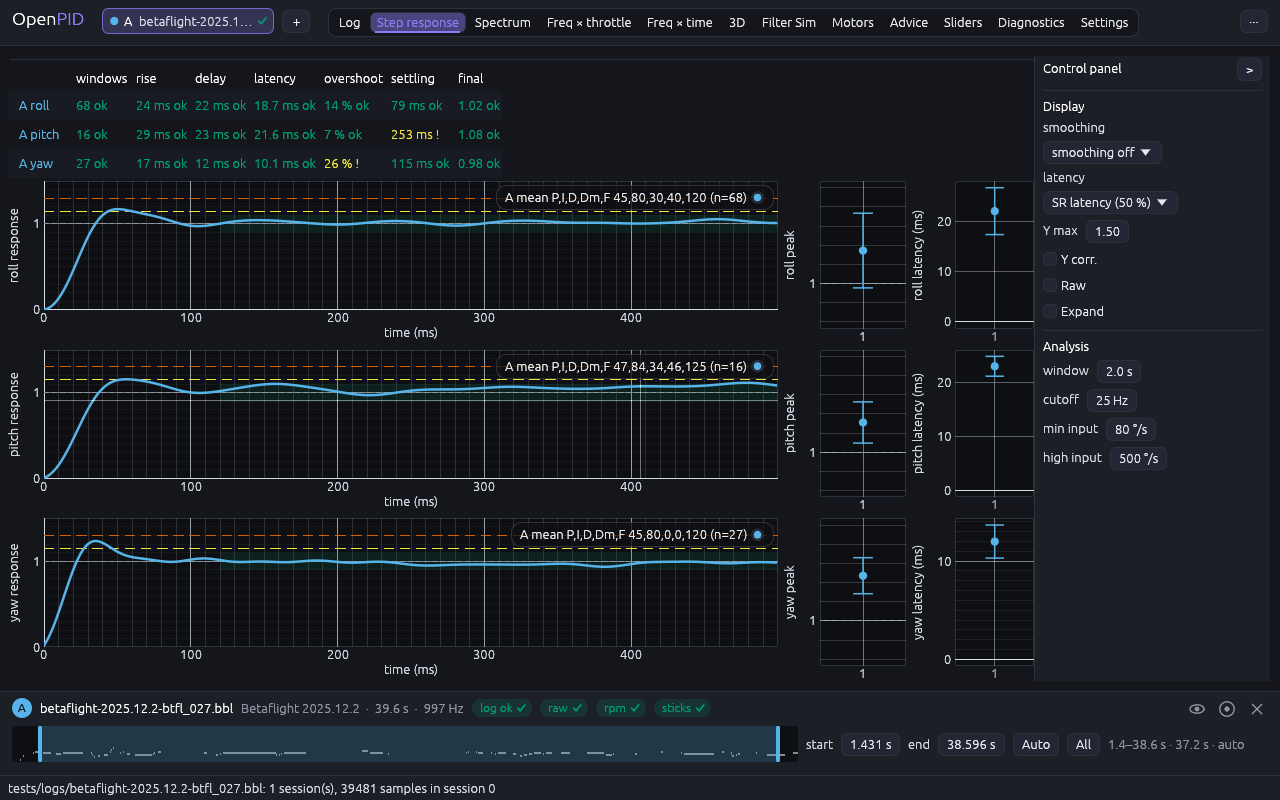
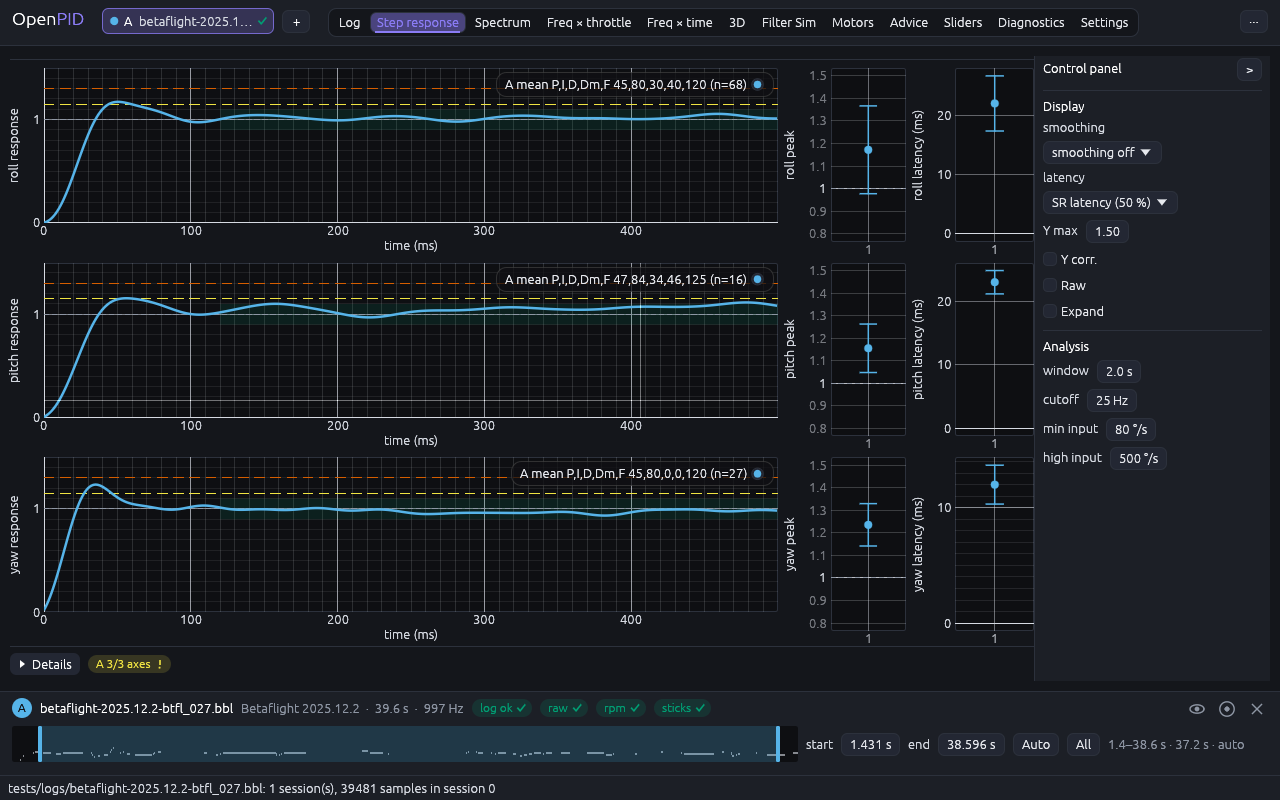
feat(app): step verdict table under the plots, closed by default
A one-line summary (Details toggle, a pill per log, the Advice line)
replaces the table above the plots, which grew with every log; Details
opens the table, capped at 45 % of the tab and scrolling.

Part of #33

Claude-Session: https://claude.ai/code/session_01RZdhNYUUBFBWTKFmkkfBUM

diff --git a/crates/openpid-app/src/axis_layout.rs b/crates/openpid-app/src/axis_layout.rs
@@ -9,7 +9,7 @@ use crate::views::{grid_heatmap, show_error, slot_color, verdict_color};
 use crate::worker::{Kind, Output, Slot};
 use eframe::egui::{self, Color32, RichText, Ui};
 use egui_plot::{HLine, Legend, Line, LineStyle, Plot, PlotPoints, Points};
-use openpid_analysis::{StepParams, StepTargets, VerdictLevel, verdicts};
+use openpid_analysis::{FitnessLevel, StepParams, StepTargets, VerdictLevel, verdicts};
 use openpid_core::Axis;
 use openpid_core::settings::PidGains;
 use std::sync::Arc;
@@ -134,6 +134,8 @@ pub struct StepDisplay {
     pub expand: bool,
     /// What the Latency plot shows.
     pub latency: LatencyShown,
+    /// The verdict table under the plots is open.
+    pub details: bool,
 }
 
 impl Default for StepDisplay {
@@ -143,6 +145,7 @@ impl Default for StepDisplay {
             raw: false,
             expand: false,
             latency: LatencyShown::HalfRise,
+            details: false,
         }
     }
 }
@@ -281,8 +284,7 @@ pub fn step(app: &mut App, ui: &mut Ui) {
             rows.push((axis, slot, app.result(slot, Kind::Step(p))));
         }
     }
-    verdict_table(app, ui, &rows, &targets);
-    advice_line(app, ui);
+    details_panel(app, ui, &rows, &targets);
     let axes: Vec<Axis> = if display.expand {
         vec![app.tools.axis]
     } else {
@@ -326,9 +328,150 @@ pub fn step(app: &mut App, ui: &mut Ui) {
     }
 }
 
-fn verdict_table(app: &mut App, ui: &mut Ui, rows: &[AxisResult], targets: &StepTargets) {
+/// The verdicts of every visible log and axis, kept for the table, the
+/// summary and the tests (`StepViewState::rows`).
+fn judge(app: &mut App, rows: &[AxisResult], targets: &StepTargets) {
     app.step_view.rows.clear();
+    for (axis, slot, result) in rows {
+        if let Some(Ok(o)) = result
+            && let Output::Step(st) = o.as_ref()
+        {
+            let v = verdicts(&st.metrics, st.windows_used, targets);
+            app.step_view.rows.push((*slot, *axis, v));
+        }
+    }
+}
+
+/// The worst level of a log's verdicts as a log-check level, for its pill.
+fn worst(levels: impl Iterator<Item = VerdictLevel>) -> FitnessLevel {
+    levels.fold(FitnessLevel::Ok, |w, l| match (w, l) {
+        (FitnessLevel::Fail, _) | (_, VerdictLevel::Fail) => FitnessLevel::Fail,
+        (FitnessLevel::Warn, _) | (_, VerdictLevel::Warn) => FitnessLevel::Warn,
+        _ => FitnessLevel::Ok,
+    })
+}
+
+/// The details at the bottom of the Step tab (docs/design/axis-layout):
+/// one line that is always shown (the "Details" toggle, a pill per log with
+/// how many axes had enough data and its worst verdict, the Advice line)
+/// and, when opened, the verdict table. Closed by default, so the table no
+/// longer grows above the plots with every log.
+fn details_panel(app: &mut App, ui: &mut Ui, rows: &[AxisResult], targets: &StepTargets) {
+    judge(app, rows, targets);
+    let max_table = ui.available_height() * 0.45;
+    egui::Panel::bottom("step-details")
+        .resizable(false)
+        .frame(egui::Frame::new().inner_margin(egui::Margin::symmetric(0, 6)))
+        .show(ui, |ui| {
+            ui.horizontal(|ui| {
+                details_toggle(app, ui);
+                for slot in app.visible_slots() {
+                    let mine: Vec<&AxisResult> = rows.iter().filter(|r| r.1 == slot).collect();
+                    let judged: Vec<_> =
+                        app.step_view.rows.iter().filter(|r| r.0 == slot).collect();
+                    let level = if judged.is_empty() {
+                        FitnessLevel::Fail
+                    } else {
+                        worst(judged.iter().flat_map(|r| r.2.iter().map(|v| v.level)))
+                    };
+                    let hover: Vec<String> = mine
+                        .iter()
+                        .map(|(axis, _, r)| {
+                            let state = match r {
+                                Some(Ok(_)) => tr("judged").to_string(),
+                                Some(Err(e)) => e.clone(),
+                                None => tr("running").to_string(),
+                            };
+                            format!("{} {}: {state}", slot.name(), axis.name())
+                        })
+                        .collect();
+                    crate::views::pill(
+                        ui,
+                        &format!(
+                            "{} {}/{} {}",
+                            slot.name(),
+                            judged.len(),
+                            mine.len(),
+                            tr("axes")
+                        ),
+                        level,
+                    )
+                    .on_hover_text(hover.join("\n"));
+                }
+                advice_line(app, ui);
+            });
+            if app.tools.step_display.details {
+                // a bottom panel keeps last frame's height: ask for the
+                // table's own height (header + one row per log and axis)
+                let row = ui.spacing().interact_size.y + ui.spacing().item_spacing.y;
+                let want = ((rows.len() + 1) as f32 * row).min(max_table);
+                egui::ScrollArea::vertical()
+                    .id_salt("step-details-table")
+                    .min_scrolled_height(want)
+                    .max_height(max_table)
+                    .show(ui, |ui| verdict_table(app, ui, rows));
+            }
+        });
+}
+
+/// The "Details" toggle: a painted disclosure triangle and the word.
+fn details_toggle(app: &mut App, ui: &mut Ui) {
+    let open = app.tools.step_display.details;
+    let text = tr("Details");
+    let galley = ui.painter().layout_no_wrap(
+        text.to_string(),
+        egui::FontId::proportional(13.0),
+        ui.visuals().strong_text_color(),
+    );
+    let size = egui::vec2(galley.size().x + 30.0, 22.0);
+    let (rect, resp) = ui.allocate_exact_size(size, egui::Sense::click());
+    resp.widget_info(|| egui::WidgetInfo::selected(egui::Role::Button, true, open, text));
+    let v = ui.visuals();
+    let fill = if resp.hovered() {
+        v.widgets.hovered.weak_bg_fill
+    } else {
+        v.widgets.inactive.weak_bg_fill
+    };
+    let p = ui.painter();
+    p.rect_filled(rect, 6.0, fill);
+    let c = egui::pos2(rect.left() + 12.0, rect.center().y);
+    let tri = if open {
+        vec![
+            c + egui::vec2(-4.0, -2.0),
+            c + egui::vec2(4.0, -2.0),
+            c + egui::vec2(0.0, 3.0),
+        ]
+    } else {
+        vec![
+            c + egui::vec2(-2.0, -4.0),
+            c + egui::vec2(3.0, 0.0),
+            c + egui::vec2(-2.0, 4.0),
+        ]
+    };
+    p.add(egui::Shape::convex_polygon(
+        tri,
+        v.strong_text_color(),
+        egui::Stroke::NONE,
+    ));
+    let gy = rect.center().y - galley.size().y / 2.0;
+    p.galley(
+        egui::pos2(rect.left() + 22.0, gy),
+        galley,
+        v.strong_text_color(),
+    );
+    if resp
+        .on_hover_text(tr(
+            "the verdict table: every log and axis against the targets",
+        ))
+        .clicked()
+    {
+        app.tools.step_display.details = !open;
+    }
+}
+
+fn verdict_table(app: &mut App, ui: &mut Ui, rows: &[AxisResult]) {
     let mut switch_to: Option<Axis> = None;
+    let judged = app.step_view.rows.clone();
     egui::Grid::new("step-verdicts")
         .striped(true)
         .show(ui, |ui| {
@@ -351,17 +494,18 @@ fn verdict_table(app: &mut App, ui: &mut Ui, rows: &[AxisResult], targets: &Step
                     switch_to = Some(*axis);
                 }
                 match result {
-                    Some(Ok(o)) => {
-                        if let Output::Step(st) = o.as_ref() {
-                            let v = verdicts(&st.metrics, st.windows_used, targets);
-                            for vd in &v {
-                                ui.label(
-                                    RichText::new(format!("{} {}", vd.value, vd.level.marker()))
-                                        .color(verdict_color(vd.level)),
-                                )
-                                .on_hover_text(&vd.note);
-                            }
-                            app.step_view.rows.push((*slot, *axis, v));
+                    Some(Ok(_)) => {
+                        let v = judged
+                            .iter()
+                            .find(|(s, a, _)| s == slot && a == axis)
+                            .map(|r| r.2.as_slice())
+                            .unwrap_or_default();
+                        for vd in v {
+                            ui.label(
+                                RichText::new(format!("{} {}", vd.value, vd.level.marker()))
+                                    .color(verdict_color(vd.level)),
+                            )
+                            .on_hover_text(&vd.note);
                         }
                     }
                     Some(Err(e)) => {
@@ -419,14 +563,15 @@ fn advice_line(app: &mut App, ui: &mut Ui) {
     };
     let line = format!("{}: {first}", tr("Advice"));
     app.step_view.advice = Some(line.clone());
-    ui.horizontal_wrapped(|ui| {
-        ui.label(RichText::new(line).color(crate::colormap::ACCENT));
-        if lines.len() > 1 {
-            ui.label(format!("(+{})", lines.len() - 1));
-        }
+    ui.with_layout(egui::Layout::right_to_left(egui::Align::Center), |ui| {
         if ui.button(tr("Go to Advice")).clicked() {
             app.tab = crate::app::Tab::Advice;
         }
+        if lines.len() > 1 {
+            ui.label(format!("(+{})", lines.len() - 1));
+        }
+        ui.add(egui::Label::new(RichText::new(line).color(crate::colormap::ACCENT)).truncate())
+            .on_hover_text(lines.join("\n"));
     });
 }
 

diff --git a/crates/openpid-app/src/i18n.rs b/crates/openpid-app/src/i18n.rs
@@ -113,6 +113,7 @@ static UA: &[(&str, &str)] = &[
     ("Custom", "Власні"),
     ("D step", "крок D"),
     ("Dark", "Темна"),
+    ("Details", "Деталі"),
     ("Diagnostics", "Діагностика"),
     ("Done", "Готово"),
     ("Drop a log here, or", "Перетягніть лог сюди або"),
@@ -240,6 +241,7 @@ static UA: &[(&str, &str)] = &[
         "a synthetic 30 s flight: no file needed",
         "синтетичний політ 30 с, файл не потрібен",
     ),
+    ("axes", "осі"),
     ("axis", "вісь"),
     ("channel", "канал"),
     (
@@ -286,6 +288,7 @@ static UA: &[(&str, &str)] = &[
         "into the first empty slot, or a new one",
         "у перший порожній слот або в новий",
     ),
+    ("judged", "оцінено"),
     (
         "keys: Right / Enter, Left, Esc",
         "клавіші: → / Enter, ←, Esc",
@@ -337,6 +340,7 @@ static UA: &[(&str, &str)] = &[
     ("rise", "підйом"),
     ("rise max", "підйом макс"),
     ("rpm", "об/хв"),
+    ("running", "рахується"),
     ("samples", "семпли"),
     ("segment", "сегмент"),
     ("session", "сесія"),
@@ -357,6 +361,10 @@ static UA: &[(&str, &str)] = &[
     (
         "the same target as on the Step tab (Settings → Targets)",
         "той самий поріг, що на вкладці Step (Settings → Targets)",
+    ),
+    (
+        "the verdict table: every log and axis against the targets",
+        "таблиця вердиктів: кожен лог і вісь проти цілей",
     ),
     (
         "throttle bins with fewer segments are greyed out: they are unsampled, not quiet",

diff --git a/crates/openpid-app/src/tests.rs b/crates/openpid-app/src/tests.rs
@@ -474,6 +474,8 @@ fn step_results_are_cached_per_parameters_and_epoch() {
     run_until(&mut h, idle);
     // the verdict table judges all three axes, plus the Advice line's recommender
     assert_eq!(app(&h).cache.len(), 4);
+    app_mut(&mut h).tools.step_display.details = true;
+    h.run_steps(2);
     assert!(h.query_by_label("windows").is_some());
     // the same parameters hit the cache: no new job
     h.run_steps(3);
@@ -1487,6 +1489,12 @@ fn step_tab_judges_three_axes_and_targets_change_badges_without_new_jobs() {
     assert_eq!(level(Axis::Pitch, "overshoot"), VerdictLevel::Fail, "37 %");
     assert_eq!(level(Axis::Yaw, "overshoot"), VerdictLevel::Warn, "25 %");
     assert_eq!(level(Axis::Roll, "windows"), VerdictLevel::Ok, "48 windows");
+    // the table sits closed under the plots: a pill per log, then the table
+    assert!(!has_label_containing(&h, "35 % x"), "closed by default");
+    assert!(has_label_containing(&h, "A 3/3 axes"));
+    h.get_by_label("Details").click();
+    h.run_steps(2);
+    assert!(app(&h).tools.step_display.details);
     assert!(has_label_containing(&h, "35 % x"), "value and ASCII marker");
     assert!(has_label_containing(&h, "25 % !"));
     assert!(h.query_by_label("overshoot").is_some(), "column header");
@@ -1575,6 +1583,8 @@ fn too_few_windows_grey_out_the_verdicts() {
         roll[1..].iter().all(|v| v.level == VerdictLevel::Unknown),
         "{roll:?}"
     );
+    app_mut(&mut h).tools.step_display.details = true;
+    h.run_steps(2);
     assert!(has_label_containing(&h, " ?"), "grey question marks");
 }
 

diff --git a/crates/openpid-app/src/views.rs b/crates/openpid-app/src/views.rs
@@ -699,7 +699,7 @@ pub(crate) fn paint_mark(p: &egui::Painter, c: egui::Pos2, level: FitnessLevel, 
 
 /// A pill: rounded tinted background, the text and the level's mark in its
 /// colour (fitness badges); read out as `raw [ok]`.
-fn pill(ui: &mut Ui, text: &str, level: FitnessLevel) -> egui::Response {
+pub(crate) fn pill(ui: &mut Ui, text: &str, level: FitnessLevel) -> egui::Response {
     let colour = level_color(level);
     let galley =
         ui.painter()

diff --git a/docs/USER-GUIDE.md b/docs/USER-GUIDE.md
@@ -96,11 +96,15 @@ parameters is computed once on the worker thread, so switching tabs is instant.
 
 ## 3. Step response
 
-Above the plot is the **verdict table**: one row per axis (roll / pitch / yaw)
-of every slot, columns windows · rise · delay · latency · overshoot · settling
+Roll, pitch and yaw are stacked, each with its Peak and Latency plots; the
+controls are in the panel on the right. Under the plots, one line: **Details**,
+a pill per log ("A 3/3 axes" with its worst mark; hover for the axes without
+enough data) and the Advice line. **Details** opens the **verdict table** (closed
+by default, so it does not push the plots down as logs are added): one row per
+axis (roll / pitch / yaw) of every slot, columns windows · rise · delay · latency · overshoot · settling
 · final. A cell is the value plus a mark: green `ok`, yellow `!`, red `x`, grey
 `?` (not measured, or too few windows). Hover for the threshold and the
-explanation. A click on a row switches the plotted axis. All three axes are
+explanation. A click on a row shows that axis alone at full height. All three axes are
 computed at once (cached), so the switch is instant.
 
 The thresholds (**Settings → Targets**, presets Freestyle / Racing / Cinematic
@@ -112,7 +116,7 @@ thresholds changes the marks without recomputing anything.
 On the plot: the green **target band** 1 ± tol from the settling threshold to
 the end of the response, and dashed overshoot warn (yellow) and fail (red)
 lines. When Advice has a PID proposal for this axis, a line "Advice: A roll D
-40 -> 44 (…)" with a **Go to Advice** button appears under the table.
+40 -> 44 (…)" with a **Go to Advice** button appears in the line under the plots.
 
 ![Step response](screenshots/step.png)
 

diff --git a/docs/design/axis-layout/README.md b/docs/design/axis-layout/README.md
@@ -126,5 +126,14 @@ before the next one starts.
   plots (`StepSpread` in `openpid-analysis`: mean and standard deviation of each
   window's peak and time to 50 %); the legend lists the logs only. Test:
   `step_tab_stacks_the_axes_and_the_panel_collapses`.
+- **Step response, details** (owner's remark of 2026-11-09: the verdict table
+  above the plots grew with every log): the table moves under the plots, in a
+  bottom panel of the tab, closed by default. Closed, one line: a "Details"
+  toggle, a pill per log ("A 3/3 axes", coloured and marked by its worst
+  verdict; hover lists the axes without enough data) and the Advice line with
+  "Go to Advice". Open, the table takes at most 45 % of the tab's height and
+  scrolls. `StepDisplay::details`; the tests `step_tab_judges_three_axes_and_targets_change_badges_without_new_jobs`, `too_few_windows_grey_out_the_verdicts` and `step_results_are_cached_per_parameters_and_epoch` open it.
 
 ![Step response, btfl_027, 1280 × 800](step-panel-open.png)
+
+![Step response with three logs and the details open](step-details-open.png)
